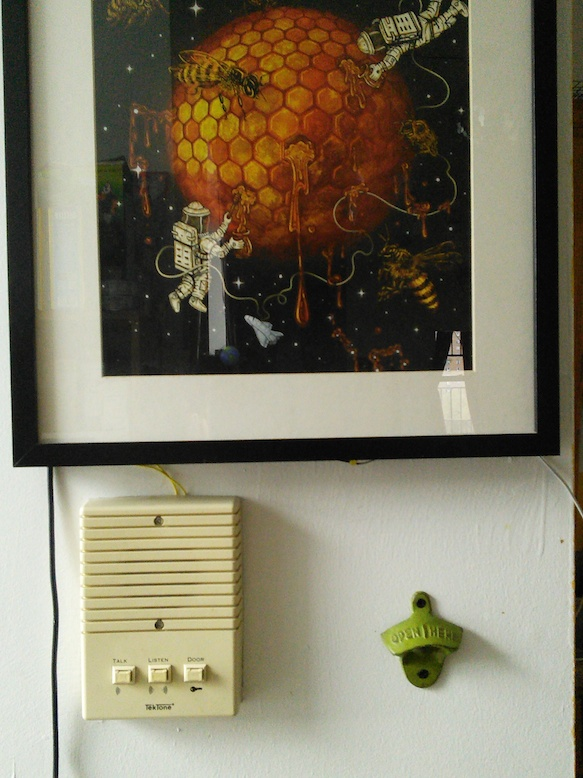
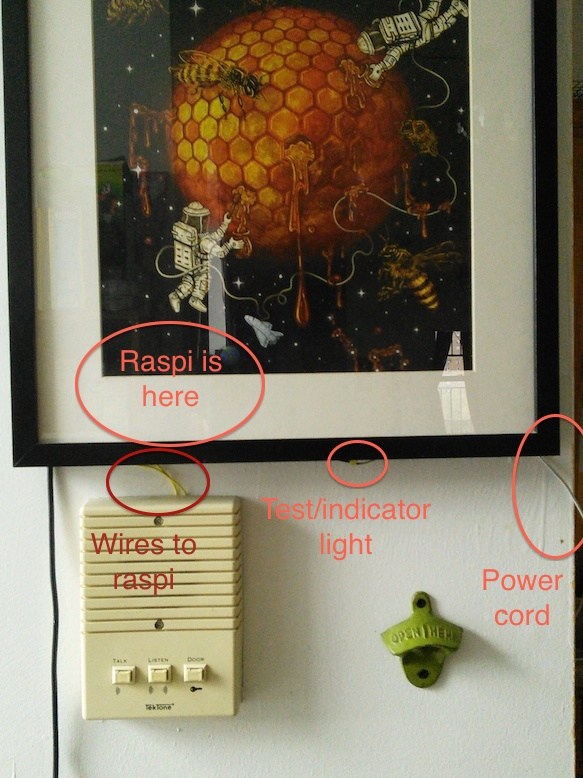
typo, anotate image

diff --git a/how_to.md b/how_to.md
@@ -114,7 +114,7 @@ Here's a real life picture of my buzzer box. The light yellow wires (connected t
 
 Once you have the wires hooked up, running `test.js` should open your door!
 
-## Strp 5: Put it all together
+## Step 5: Put it all together
 
 Now you should have everything hooked up, installed and configured. Try going outside and test it! 
 
